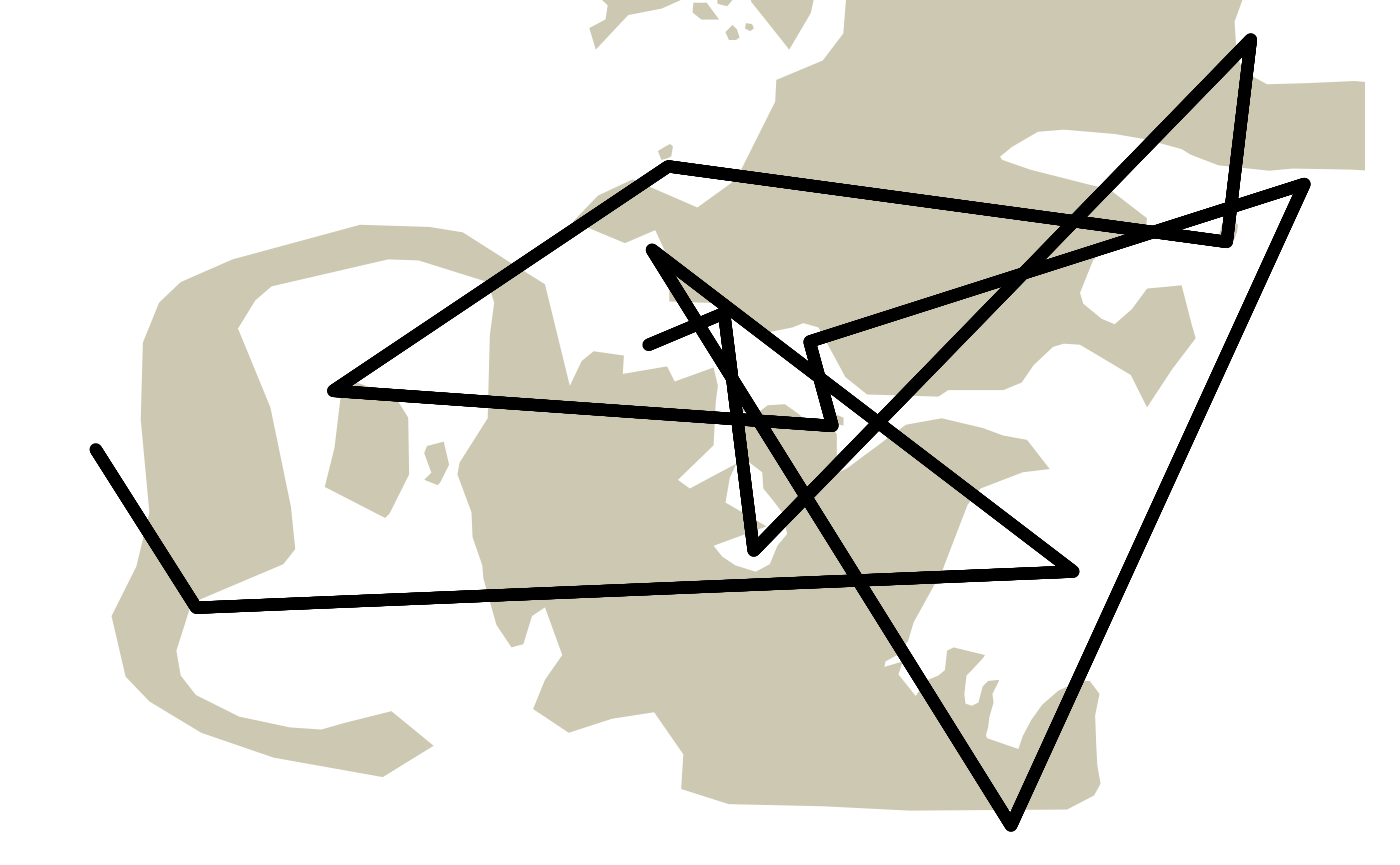
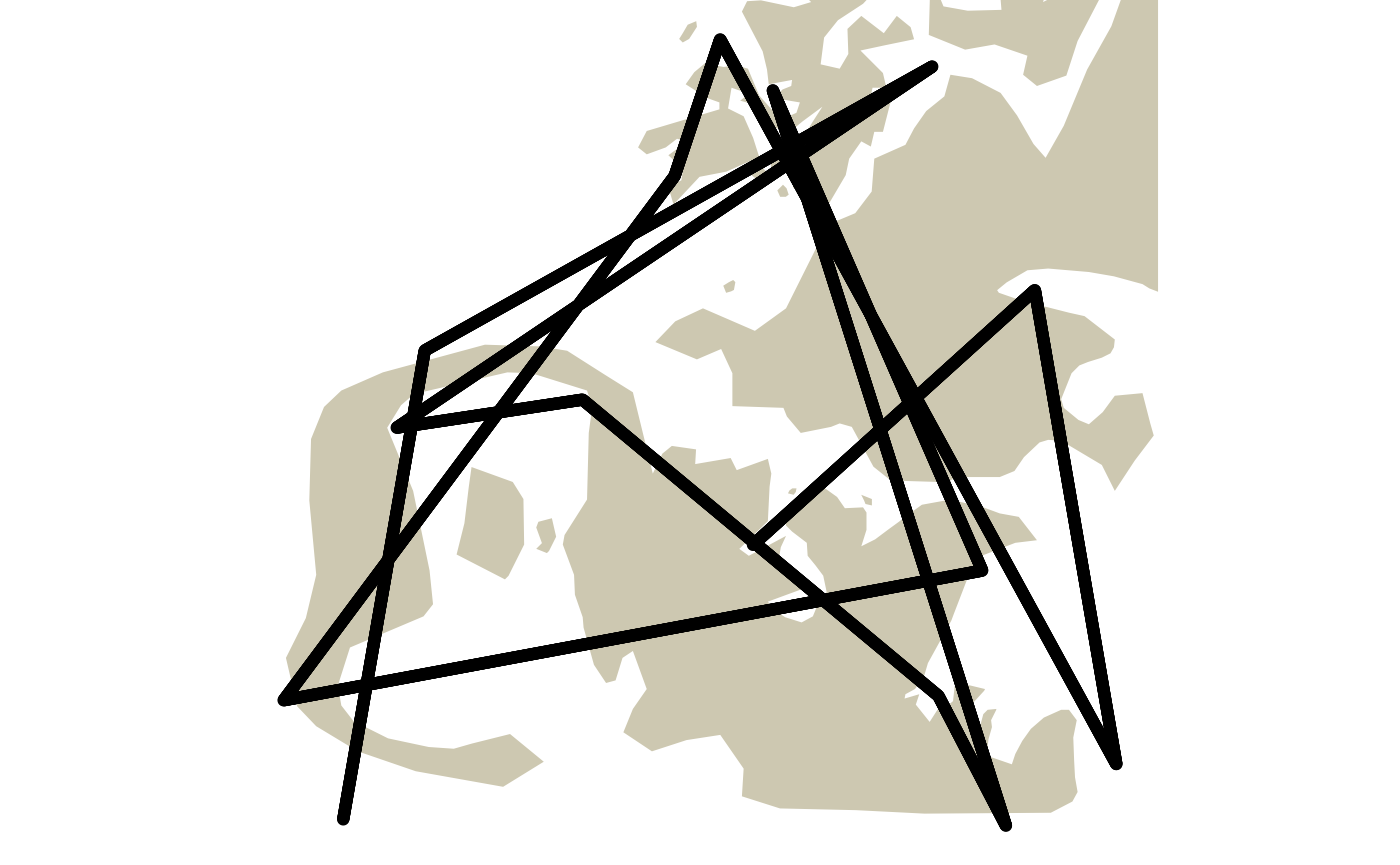
Deploying to gh-pages from @ jmlondon/pathroutr@7b832809f3ae664f8c644aedea746337a209f3f8 🚀

diff --git a/articles/reroute_demo.html b/articles/reroute_demo.html
@@ -128,20 +128,20 @@
 <div class="sourceCode" id="cb6"><pre class="downlit sourceCode r">
 <code class="sourceCode R"><span><span class="va">segs_tbl</span> <span class="op">&lt;-</span> <span class="fu"><a href="../reference/get_barrier_segments.html">get_barrier_segments</a></span><span class="op">(</span><span class="va">track_pts</span>,<span class="va">land_barrier</span><span class="op">)</span></span>
 <span><span class="va">segs_tbl</span></span>
-<span><span class="co">#&gt; <span style="color: #949494;"># A tibble: 25 × 6</span></span></span>
+<span><span class="co">#&gt; <span style="color: #949494;"># A tibble: 39 × 6</span></span></span>
 <span><span class="co">#&gt;      sid start_idx end_idx n_pts            start_pt</span></span>
 <span><span class="co">#&gt;    <span style="color: #949494; font-style: italic;">&lt;int&gt;</span>     <span style="color: #949494; font-style: italic;">&lt;dbl&gt;</span>   <span style="color: #949494; font-style: italic;">&lt;dbl&gt;</span> <span style="color: #949494; font-style: italic;">&lt;dbl&gt;</span>         <span style="color: #949494; font-style: italic;">&lt;POINT [m]&gt;</span></span></span>
-<span><span class="co">#&gt; <span style="color: #BCBCBC;"> 1</span>     1       318     361    42 (81645.06 941323.7)</span></span>
-<span><span class="co">#&gt; <span style="color: #BCBCBC;"> 2</span>     2       456     482    25  (81914.6 939157.4)</span></span>
-<span><span class="co">#&gt; <span style="color: #BCBCBC;"> 3</span>     3       580     692   111 (82777.57 939060.8)</span></span>
-<span><span class="co">#&gt; <span style="color: #BCBCBC;"> 4</span>     4       855    <span style="text-decoration: underline;">1</span>315   459   (85809.93 942180)</span></span>
-<span><span class="co">#&gt; <span style="color: #BCBCBC;"> 5</span>     5      <span style="text-decoration: underline;">1</span>419    <span style="text-decoration: underline;">1</span>613   193 (92029.04 948577.2)</span></span>
-<span><span class="co">#&gt; <span style="color: #BCBCBC;"> 6</span>     6      <span style="text-decoration: underline;">1</span>699    <span style="text-decoration: underline;">1</span>850   150 (94417.51 950286.7)</span></span>
-<span><span class="co">#&gt; <span style="color: #BCBCBC;"> 7</span>     7      <span style="text-decoration: underline;">1</span>936    <span style="text-decoration: underline;">1</span>963    26 (93974.79 946563.8)</span></span>
-<span><span class="co">#&gt; <span style="color: #BCBCBC;"> 8</span>     8      <span style="text-decoration: underline;">2</span>101    <span style="text-decoration: underline;">2</span>753   651 (91843.01 946326.5)</span></span>
-<span><span class="co">#&gt; <span style="color: #BCBCBC;"> 9</span>     9      <span style="text-decoration: underline;">2</span>913    <span style="text-decoration: underline;">3</span>032   118 (79237.15 947517.3)</span></span>
-<span><span class="co">#&gt; <span style="color: #BCBCBC;">10</span>    10      <span style="text-decoration: underline;">3</span>152    <span style="text-decoration: underline;">3</span>207    54   (76096.11 945413)</span></span>
-<span><span class="co">#&gt; <span style="color: #949494;"># … with 15 more rows, and 1 more variable: end_pt &lt;POINT [m]&gt;</span></span></span></code></pre></div>
+<span><span class="co">#&gt; <span style="color: #BCBCBC;"> 1</span>     1       101     140    38  (68060.5 933737.9)</span></span>
+<span><span class="co">#&gt; <span style="color: #BCBCBC;"> 2</span>     2       265     510   244  (68677.2 937285.5)</span></span>
+<span><span class="co">#&gt; <span style="color: #BCBCBC;"> 3</span>     3       619     666    46 (70008.36 944943.3)</span></span>
+<span><span class="co">#&gt; <span style="color: #BCBCBC;"> 4</span>     4      <span style="text-decoration: underline;">1</span>217    <span style="text-decoration: underline;">1</span>220     2 (80504.77 952036.4)</span></span>
+<span><span class="co">#&gt; <span style="color: #BCBCBC;"> 5</span>     5      <span style="text-decoration: underline;">1</span>299    <span style="text-decoration: underline;">1</span>411   111 (82075.94 952915.6)</span></span>
+<span><span class="co">#&gt; <span style="color: #BCBCBC;"> 6</span>     6      <span style="text-decoration: underline;">1</span>599    <span style="text-decoration: underline;">1</span>749   149 (84616.35 954157.9)</span></span>
+<span><span class="co">#&gt; <span style="color: #BCBCBC;"> 7</span>     7      <span style="text-decoration: underline;">1</span>794    <span style="text-decoration: underline;">1</span>805    10 (81066.46 951764.2)</span></span>
+<span><span class="co">#&gt; <span style="color: #BCBCBC;"> 8</span>     8      <span style="text-decoration: underline;">2</span>227    <span style="text-decoration: underline;">2</span>322    94 (73183.89 946448.9)</span></span>
+<span><span class="co">#&gt; <span style="color: #BCBCBC;"> 9</span>     9      <span style="text-decoration: underline;">2</span>723    <span style="text-decoration: underline;">2</span>828   104 (75489.68 944509.5)</span></span>
+<span><span class="co">#&gt; <span style="color: #BCBCBC;">10</span>    10      <span style="text-decoration: underline;">2</span>846    <span style="text-decoration: underline;">3</span>017   170 (77565.22 942781.6)</span></span>
+<span><span class="co">#&gt; <span style="color: #949494;"># … with 29 more rows, and 1 more variable: end_pt &lt;POINT [m]&gt;</span></span></span></code></pre></div>
 <p>Our next step is to create a visibility graph. This is, essentially, a road network for our marine environment. In simple terms, we connect all of the vertices for our barrier polygon with a Delaunay triangle mesh and, then, remove any of the edges that cross land. Our <code><a href="../reference/prt_visgraph.html">prt_visgraph()</a></code> function returns an undirected graph of type <em>sfnetwork</em> created with the <a href="https://luukvdmeer.github.io/sfnetworks/" class="external-link">sfnetworks</a> package. Edge lengths are stored as a weight attribute for our visibility graph.</p>
 <p>The most computationally intensive step is likely to be identification of which edges intersect with the barrier polygon. We try to minimize this by, first, buffering the barrier by -1 meter and then calling <code>sf::st_intersect()</code>. Because all of the nodes in our network are also vertices in our barrier polygon, all edges intersect with the barrier polygon. By buffering by -1 meter, we disconnect the nodes. If we didn’t do this, we would need to evaluate two spatial predicate functions (<code><a href="https://r-spatial.github.io/sf/reference/geos_binary_pred.html" class="external-link">sf::st_crosses()</a></code> and <code><a href="https://r-spatial.github.io/sf/reference/geos_binary_pred.html" class="external-link">sf::st_within()</a></code>). With the negative buffer adjustment, we can rely solely on <code>sf::st_intersect()</code>. The other step we do to minimize compute time is to NOT evaluate which edges intersect with the barrier polygon feature. Instead we evaluate which polygon features intersect with which edges. Because <code>sf::st_intersect()</code> evaluates row wise, this minimizes the number of evaluations since the number of polygon features in barrier is always going to be much much smaller than the number of edges.</p>
 <div class="sourceCode" id="cb7"><pre class="downlit sourceCode r">
